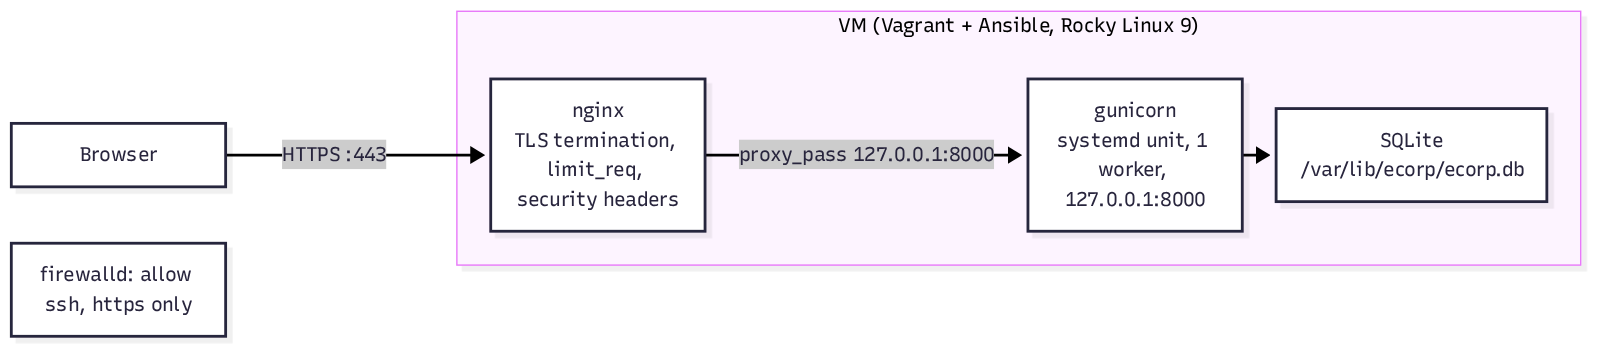
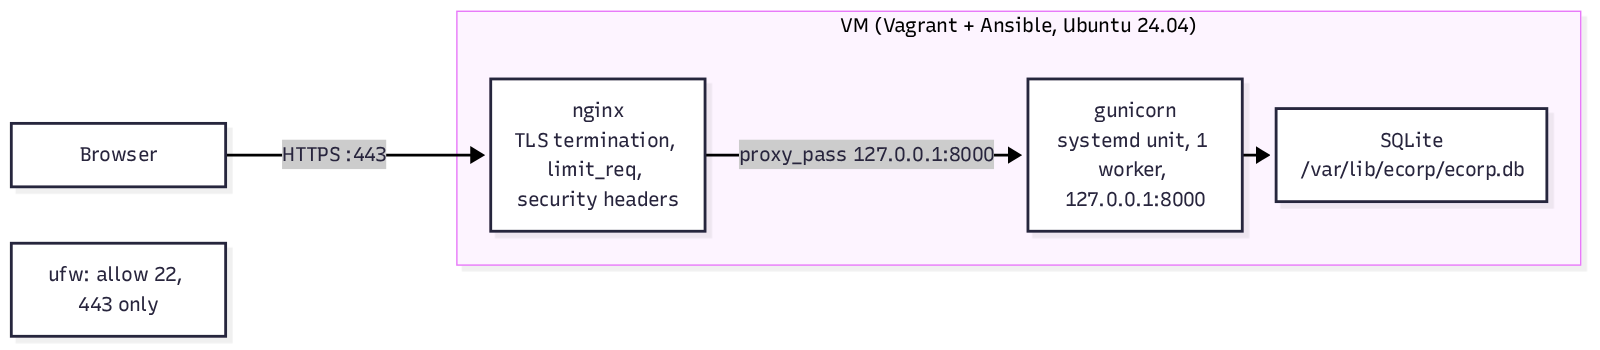
Updated diagrams and Readme Fix bug with nginx is stripping the port off Host, breaking CSRF login

Changed region(s): [[0.5, 0.0286, 0.75, 0.1143], [0.0312, 0.8571, 0.125, 0.9143], [0.0312, 0.7429, 0.125, 0.8]]

diff --git a/README.md b/README.md
@@ -1,8 +1,7 @@
 # E-Corp SRE Challenge
 
-A Flask login app, fixed and deployed two ways: a hardened VM (Vagrant +
-Ansible + nginx + systemd) and Kubernetes (Helm + Prometheus/Grafana). One
-app, one config contract, two targets - see `docs/architecture.md`.
+A Flask login app, fixed and deployed two ways: a hardened VM (Vagrant + Ansible + nginx + systemd) and Kubernetes (Helm + Prometheus/Grafana). 
+One app, one config contract, two targets: see [Architecture Documentation](docs/architecture.md).
 
 
 ## Architecture
@@ -15,8 +14,7 @@ flowchart LR
     k8s --> mon["kube-prometheus-stack\nalerts + Grafana dashboard"]
 ```
 
-Full diagrams (VM and Kubernetes, each with every component) and the
-reasoning behind every non-obvious choice: `docs/architecture.md`.
+Full diagrams (VM and Kubernetes, each with every component) and [the reasoning behind every non-obvious choice](docs/architecture.md).
 
 
 ## VM architecture
